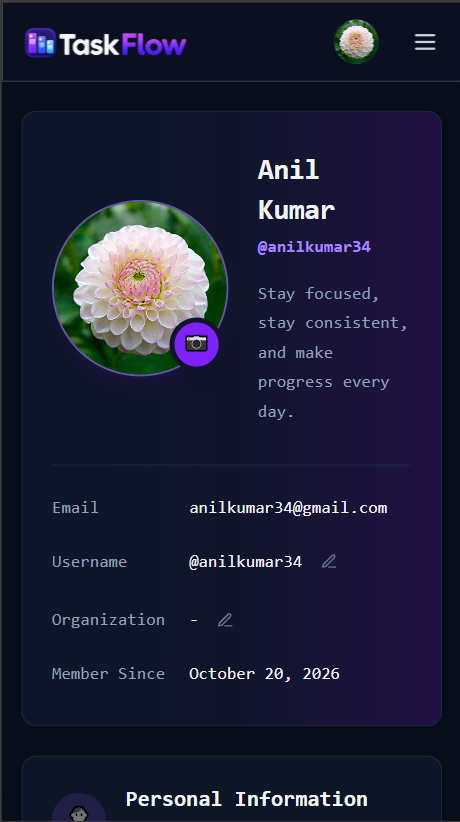
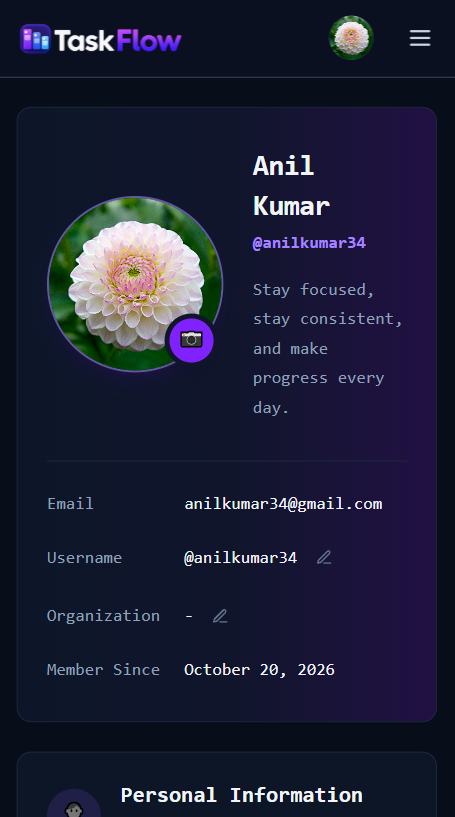
Updating screenshots and layout

diff --git a/README.md b/README.md
@@ -19,10 +19,13 @@ TaskFlow is a full-stack task management app with a drag-and-drop Kanban board. 
 
 ![Dashboard](docs/screenshots/dashboard-desktop.png)
 
-| Profile |
+| | |
 | --- | --- |
-| ![Profile](docs/screenshots/profile-desktop-1.png)  | ![Profile](docs/screenshots/profile-desktop-2.png) |
-| ![Dashboard](docs/screenshots/dashboard-mobile.png) | ![Profile](docs/screenshots/profile-mobile.png)    |
+| ![Dashboard mobile](docs/screenshots/dashboard-mobile.png) | ![Profile mobile](docs/screenshots/profile-mobile.png) |
+
+![Profile tasks](docs/screenshots/profile-desktop-2.png)
+
+![Settings](docs/screenshots/settings-desktop.png)
 
 ## Tech Stack
 
